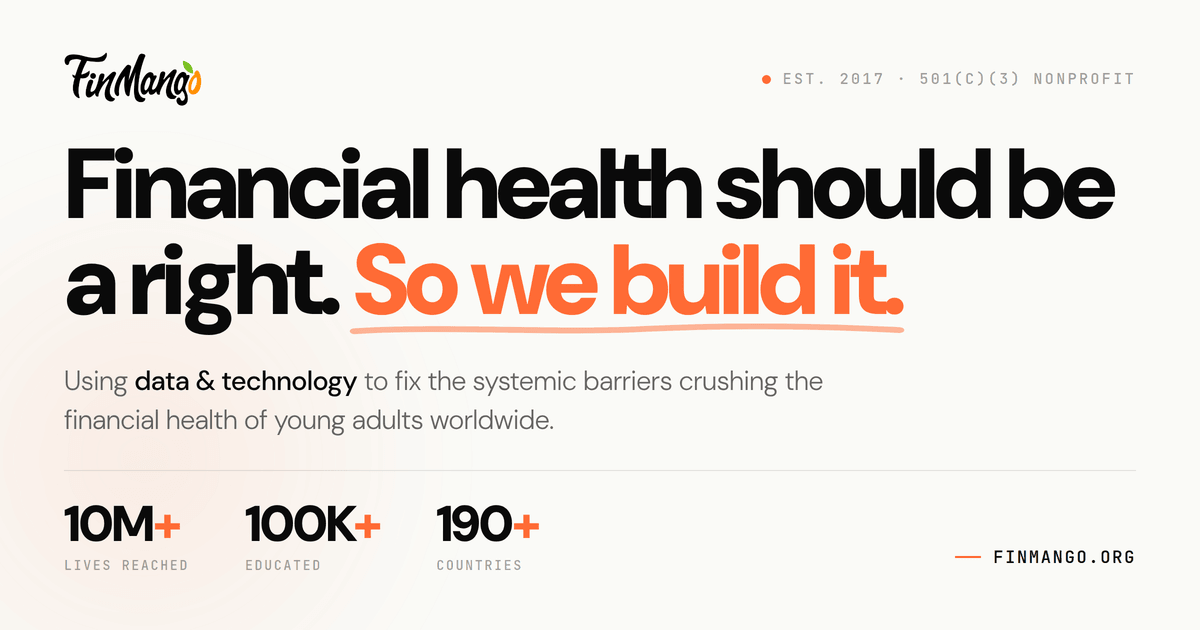
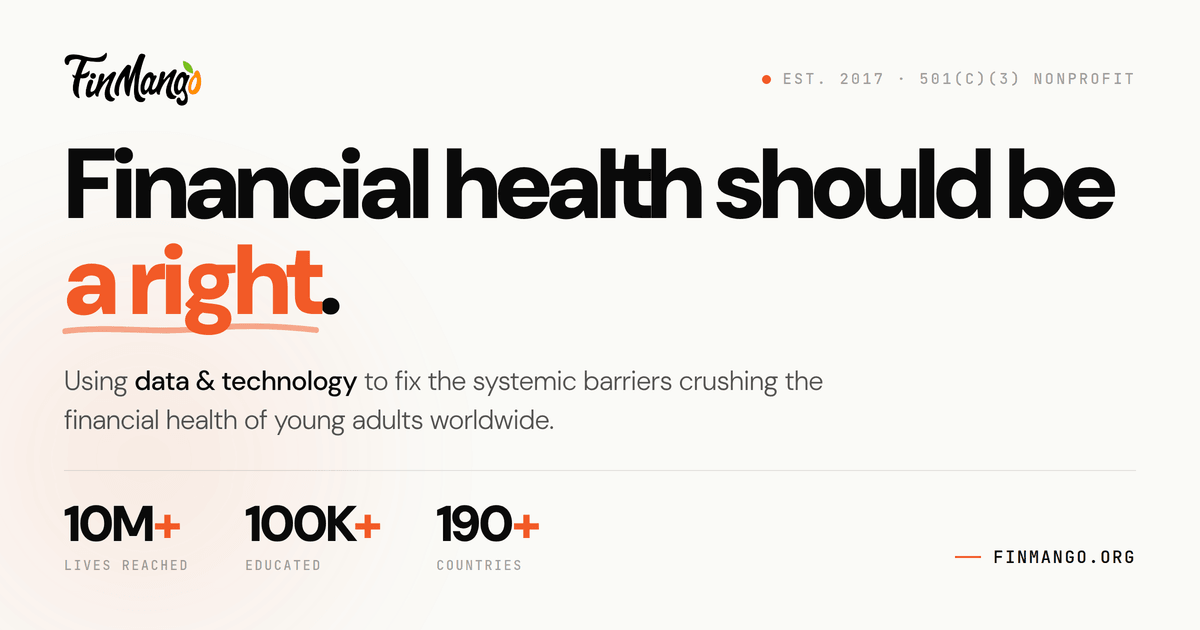
Drop "So we build it." from the home hero headline
The headline is now simply "Financial health should be a right." with
the orange accent and hand-drawn underline moved to "a right", matching
the about page. The subhead already says what FinMango does, so the
second sentence was redundant.

The same line lives in the Open Graph share image template, so it is
updated there too and og-image.png regenerated with scripts/render-og.js.

Claude-Session: https://claude.ai/code/session_011jBN2V3ikufk6Cw7BAkbsX

Changed region(s): [[0.0308, 0.3619, 0.7708, 0.5429]]

diff --git a/index.html b/index.html
@@ -2056,7 +2056,7 @@
 
       <div class="hero-grid">
         <div class="hero-copy">
-          <h1 class="reveal r1">Financial health should be a right. <em>So we build it.<svg class="hand-stroke" viewBox="0 0 300 12" preserveAspectRatio="none" aria-hidden="true"><path d="M4 8 C 50 3, 110 10, 160 6 S 260 4, 296 7"/></svg></em></h1>
+          <h1 class="reveal r1">Financial health should be <em>a right<svg class="hand-stroke" viewBox="0 0 300 12" preserveAspectRatio="none" aria-hidden="true"><path d="M4 8 C 50 3, 110 10, 160 6 S 260 4, 296 7"/></svg></em>.</h1>
           <p class="hb-sub reveal r2">
             Affordability is mobility. We use data and technology to remove the <strong>barriers</strong> holding back young adults and vulnerable communities.
           </p>

diff --git a/scripts/og-image-template.html b/scripts/og-image-template.html
@@ -181,7 +181,7 @@
   </div>
 
   <h1 class="headline">
-    Financial health should be a right. <em>So we build it.<svg class="hand-stroke" viewBox="0 0 300 12" preserveAspectRatio="none" aria-hidden="true"><path d="M4 8 C 50 3, 110 10, 160 6 S 260 4, 296 7"/></svg></em>
+    Financial health should be <em>a right<svg class="hand-stroke" viewBox="0 0 300 12" preserveAspectRatio="none" aria-hidden="true"><path d="M4 8 C 50 3, 110 10, 160 6 S 260 4, 296 7"/></svg></em>.
   </h1>
 
   <p class="sub">
